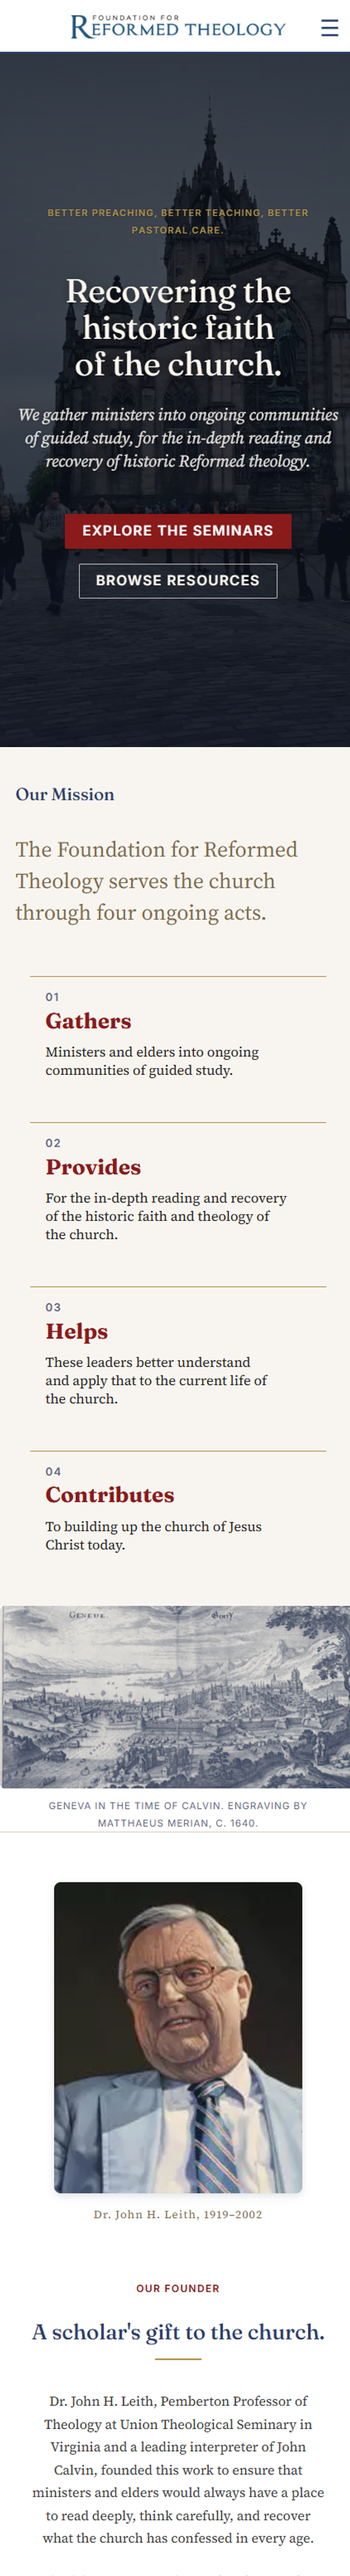
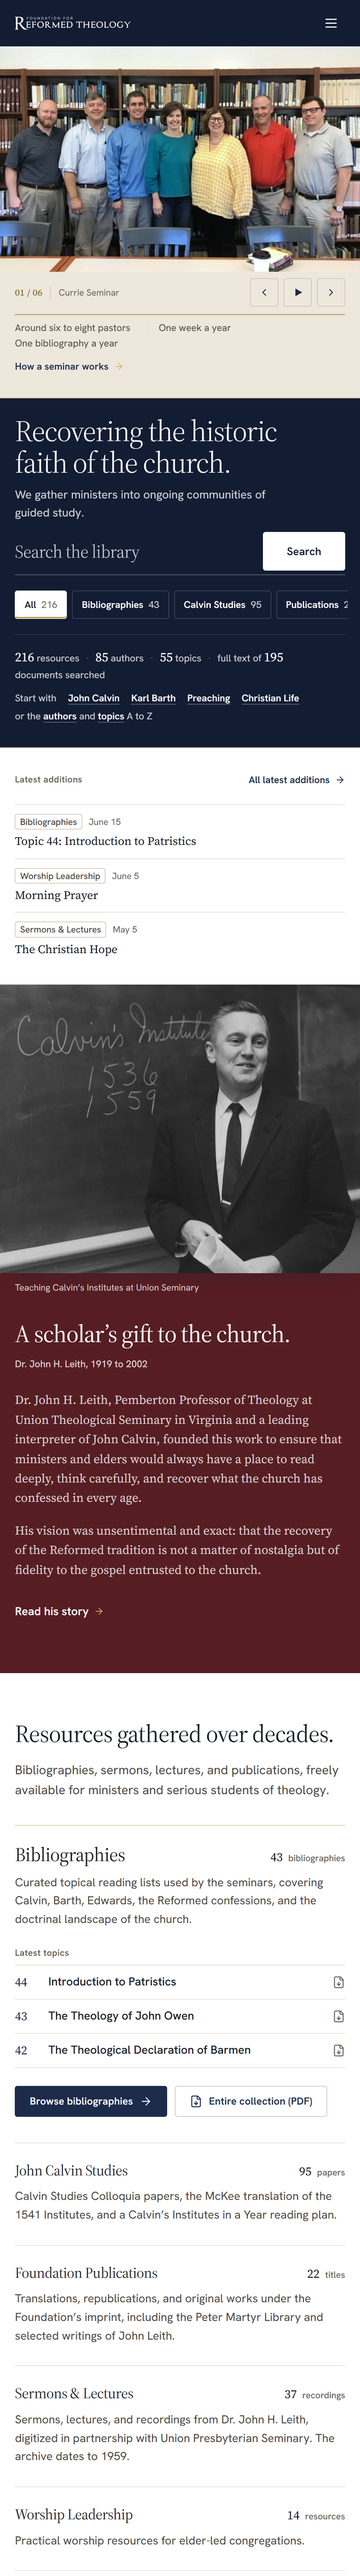
Overhaul 2.4e: rebuild the Theology Matters and FRT studies
Both studies predated most of what shipped on these sites, so I rewrote
them around the sites as they are today, from the live pages and the
client repos:

- Theology Matters: every issue since 1995 online (the back issues
  turned from PDFs into articles), search across articles and issue
  PDFs, audio and reading tools on every essay, the print, newsletter
  and stop-or-move forms that feed Neon CRM, and the rebuilt admin the
  staff run the journal from.
- FRT: the library-first redesign, full-text search, Dr. Leith's
  recordings with transcripts, the seminars page, and the staff admin
  (What are you adding?, guided seminar form, undo, Site Guide videos).
- New hooks, summaries, outcomes, meta descriptions, stacks and sourced
  figures. FRT's palette and typeface now come from the live v2 theme
  (Source Serif 4 / Hanken Grotesk); TM's tokens are unchanged.
- Re-captured covers, full-page, mobile and feature shots from the live
  sites, plus two new feature shots (TM print sign-up, FRT recording).
- capture-case-study.mjs now hides slide-in cards in the lower part of
  the window (both sites show a timed giving prompt).

diff --git a/.claude/rules/content.md b/.claude/rules/content.md
@@ -36,13 +36,13 @@ Three collections live in `src/content/` with schemas declared in `src/content.c
 
 All optional in the schema, but every live study carries `hook`, `order` and `palette` (the reel and `case-palettes.test.ts` require them).
 
-| Field                                     | Shape                                                                                                           | What it is for                                                                                                                                                                                                                                                                                                                                                                                                                                                                                                                                                                                                                                                                                                                   |
-| ----------------------------------------- | --------------------------------------------------------------------------------------------------------------- | -------------------------------------------------------------------------------------------------------------------------------------------------------------------------------------------------------------------------------------------------------------------------------------------------------------------------------------------------------------------------------------------------------------------------------------------------------------------------------------------------------------------------------------------------------------------------------------------------------------------------------------------------------------------------------------------------------------------------------- |
-| `hook`                                    | string, max 90                                                                                                  | One true line about the live site in Nathan's plain voice. The hero reel's hover tag and "Now showing" ticker read it (`getReelSites()` in `src/data/reel.ts`); the title card shows it under the client name.                                                                                                                                                                                                                                                                                                                                                                                                                                                                                                                   |
-| `order`                                   | int, 1..n                                                                                                       | Position in the study loop. Matches the /work order (newest `published` first); Up next hands off to `order + 1` and wraps. The unit test checks the set runs 1..n with no gaps.                                                                                                                                                                                                                                                                                                                                                                                                                                                                                                                                                 |
-| `palette`                                 | `{ paper, ink, accent, accentInk, markDark?, dark?: { paper, ink, accent, accentInk? }, typeface, swatches[] }` | The client's own colours (six-digit hex) and faces, copied from the client repo's shipped tokens, or sampled with getComputedStyle from the live site when there is no repo (Orangeburg). Used only for surfaces, rules, swatches and non-text marks. `dark` only where the client site really ships a dark theme (today Stone Steps and Presbyterian Academy); never invent one. `markDark` is the client swatch used for marks on this site's dark ink when `accent` is under 3:1 there. `typeface` reads heading face first, e.g. `'Fraunces / Source Sans 3'`. A `# Palette source:` comment above each block says where the values came from.                                                                               |
-| `featureShot`, `beforeShot`, `mobileShot` | image paths, relative to the .mdx like `cover`                                                                  | Captures for the redesigned study page. `featureShotAlt` (string) is the Signature still's alt text, saying what it shows on the live site; without it the alt is a generic "A feature on the live {client} site". `mobileShot` is `shots/{slug}-mobile.png` from `npm run capture:study`; `beforeShot` only where the old site was captured while still live (FRT, MAS, Stone Steps). `featureShot` feeds the Signature band ("The idea", package 2.4b), which the study page shows only when a study sets it (set in 2.4c to the feature each hook names; MAS, Reid and FBCM leave it unset because no current capture shows it). The stage is a `FramePair` of `shots/{slug}-home.png` (found by file name) and `mobileShot`. |
-| `facts`                                   | `{ sector?, year?, role?, stack?: string[], host? }`                                                            | Overrides for the study's fact row. Each missing key falls back to the top-level field (`sector`, `year`, `role`, `stack`, the host of `liveUrl`). Leave it off unless the row should read differently, e.g. `year: '2024, rebuilt 2026'`.                                                                                                                                                                                                                                                                                                                                                                                                                                                                                       |
+| Field                                     | Shape                                                                                                           | What it is for                                                                                                                                                                                                                                                                                                                                                                                                                                                                                                                                                                                                                                                                                                                                |
+| ----------------------------------------- | --------------------------------------------------------------------------------------------------------------- | --------------------------------------------------------------------------------------------------------------------------------------------------------------------------------------------------------------------------------------------------------------------------------------------------------------------------------------------------------------------------------------------------------------------------------------------------------------------------------------------------------------------------------------------------------------------------------------------------------------------------------------------------------------------------------------------------------------------------------------------- |
+| `hook`                                    | string, max 90                                                                                                  | One true line about the live site in Nathan's plain voice. The hero reel's hover tag and "Now showing" ticker read it (`getReelSites()` in `src/data/reel.ts`); the title card shows it under the client name.                                                                                                                                                                                                                                                                                                                                                                                                                                                                                                                                |
+| `order`                                   | int, 1..n                                                                                                       | Position in the study loop. Matches the /work order (newest `published` first); Up next hands off to `order + 1` and wraps. The unit test checks the set runs 1..n with no gaps.                                                                                                                                                                                                                                                                                                                                                                                                                                                                                                                                                              |
+| `palette`                                 | `{ paper, ink, accent, accentInk, markDark?, dark?: { paper, ink, accent, accentInk? }, typeface, swatches[] }` | The client's own colours (six-digit hex) and faces, copied from the client repo's shipped tokens, or sampled with getComputedStyle from the live site when there is no repo (Orangeburg) or the repo's token doc is older than the live theme (FRT since its October 2026 redesign). Used only for surfaces, rules, swatches and non-text marks. `dark` only where the client site really ships a dark theme (today Stone Steps and Presbyterian Academy); never invent one. `markDark` is the client swatch used for marks on this site's dark ink when `accent` is under 3:1 there. `typeface` reads heading face first, e.g. `'Fraunces / Source Sans 3'`. A `# Palette source:` comment above each block says where the values came from. |
+| `featureShot`, `beforeShot`, `mobileShot` | image paths, relative to the .mdx like `cover`                                                                  | Captures for the redesigned study page. `featureShotAlt` (string) is the Signature still's alt text, saying what it shows on the live site; without it the alt is a generic "A feature on the live {client} site". `mobileShot` is `shots/{slug}-mobile.png` from `npm run capture:study`; `beforeShot` only where the old site was captured while still live (FRT, MAS, Stone Steps). `featureShot` feeds the Signature band ("The idea", package 2.4b), which the study page shows only when a study sets it (set in 2.4c to the feature each hook names; MAS, Reid and FBCM leave it unset because no current capture shows it). The stage is a `FramePair` of `shots/{slug}-home.png` (found by file name) and `mobileShot`.              |
+| `facts`                                   | `{ sector?, year?, role?, stack?: string[], host? }`                                                            | Overrides for the study's fact row. Each missing key falls back to the top-level field (`sector`, `year`, `role`, `stack`, the host of `liveUrl`). Leave it off unless the row should read differently, e.g. `year: '2024, rebuilt 2026'`.                                                                                                                                                                                                                                                                                                                                                                                                                                                                                                    |
 
 ### Study body shape (overhaul 2.4c)
 
